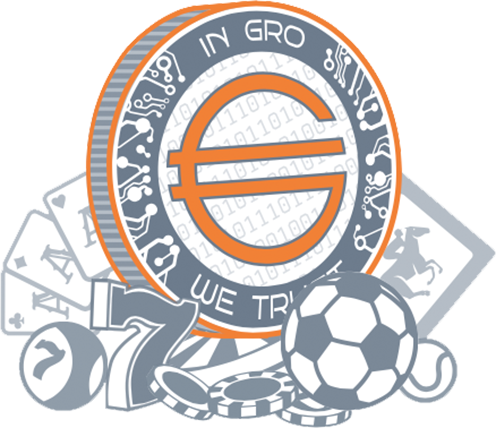
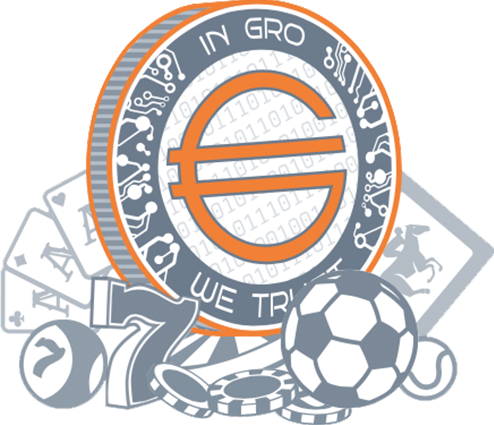
Style top section layout and top image animation

diff --git a/styles/main.css b/styles/main.css
@@ -83,19 +83,20 @@ a {
 
 .flex-container {
 	display: flex;
-	justify-content: center;
+	flex-wrap: wrap;
+	justify-content: space-between;
 }
 .flex-cols-2 .flex-item {
-	width: 50%;
+	flex-basis: 48%;
 }
 
 .grid-container {
 	display: grid;
 }
 .grid-cols-2 {
-	grid-template-columns: repeat(auto-fill, minmax(400px, 1fr));
-	grid-column-gap: 160px;
-	grid-row-gap: 50px;
+	grid-template-columns: repeat(auto-fit, minmax(290px, 1fr));
+	grid-column-gap: 30px;
+	grid-row-gap: 30px;
 	justify-content: space-between;
 }
 
@@ -108,9 +109,6 @@ a {
 .timer {
 	display: flex;
 	justify-content: center;
-}
-.timer > div {
-	
 }
 .timer-cell {
 	width: 70px;
@@ -452,21 +450,61 @@ a {
 	line-height: 1.25;
 }
 
+#top-image-container {
+	padding: 40px 0;
+}
 #top-image {
 	position: relative;
-	height: 515px;
+	width: 100%;
+	max-width: 494px;
 }
-
 #top-image img {
+	display: block;
+	max-width: 100%;
+	transition: opacity 0.4s;
+}
+#top-image-colour {
 	position: absolute;
-	top: 50%;
+	top: 0;
 	left: 0;
-	margin-top: -214px;
+	width: 100%;
+}
+#top-image-colour {
+	opacity: 0;
+}
+#top-image:hover #top-image-colour {
+	opacity: 1;
+}
+#top-image:hover #top-image-bw {
+	opacity: 0;
 }
 
 #top-text .btn {
 	width: 195px;
 	margin-right: 20px;
+	margin-bottom: 20px;
+}
+#top-text p:last-child {
+	margin-bottom: 0;
+}
+#top-text .btn:last-child {
+	margin-right: 0;
+	margin-bottom: 0;
+}
+
+/* styles for top section in one-column layout */
+@media (max-width: 639px) {
+	#top-image-container {
+		padding-top: 0;
+		padding-bottom: 0;
+	}
+	#top-image {
+		margin-left: auto;
+		margin-right: auto;
+	}
+	#top-text {
+		text-align: center;
+	}
 }
 
 
@@ -475,6 +513,10 @@ a {
 }
 
 
+#blurbs-section .grid-container {
+	grid-column-gap: 160px;
+	grid-row-gap: 50px;
+}
 .blurb img {
 	float: left;
 	width: 80px;

diff --git a/index.html b/index.html
@@ -31,12 +31,14 @@
 	
 	<section id="top-section" class="blue home-section">
 		<div class="container">
-			<div class="flex-container flex-cols-2">
-				<div id="top-image" class="flex-item">
-					<img src="images/coin-bw.png" />
-					<!-- img src="images/coin-colour.png" / -->
+			<div class="grid-container grid-cols-2">
+				<div id="top-image-container">
+					<div id="top-image">
+						<img id="top-image-bw" src="images/coin-bw.png" />
+						<img id="top-image-colour" src="images/coin-colour.png" />
+					</div>
 				</div>
-				<div id="top-text" class="flex-item col-vertical-center">
+				<div id="top-text" class="col-vertical-center">
 					<h1>Gambling & Betting<br />On the Blockchain</h1>
 					<p>Disrupt the $150b Gambling and Betting industry<br />by contributing to Gron Digital Platform</p>
 					<p>
